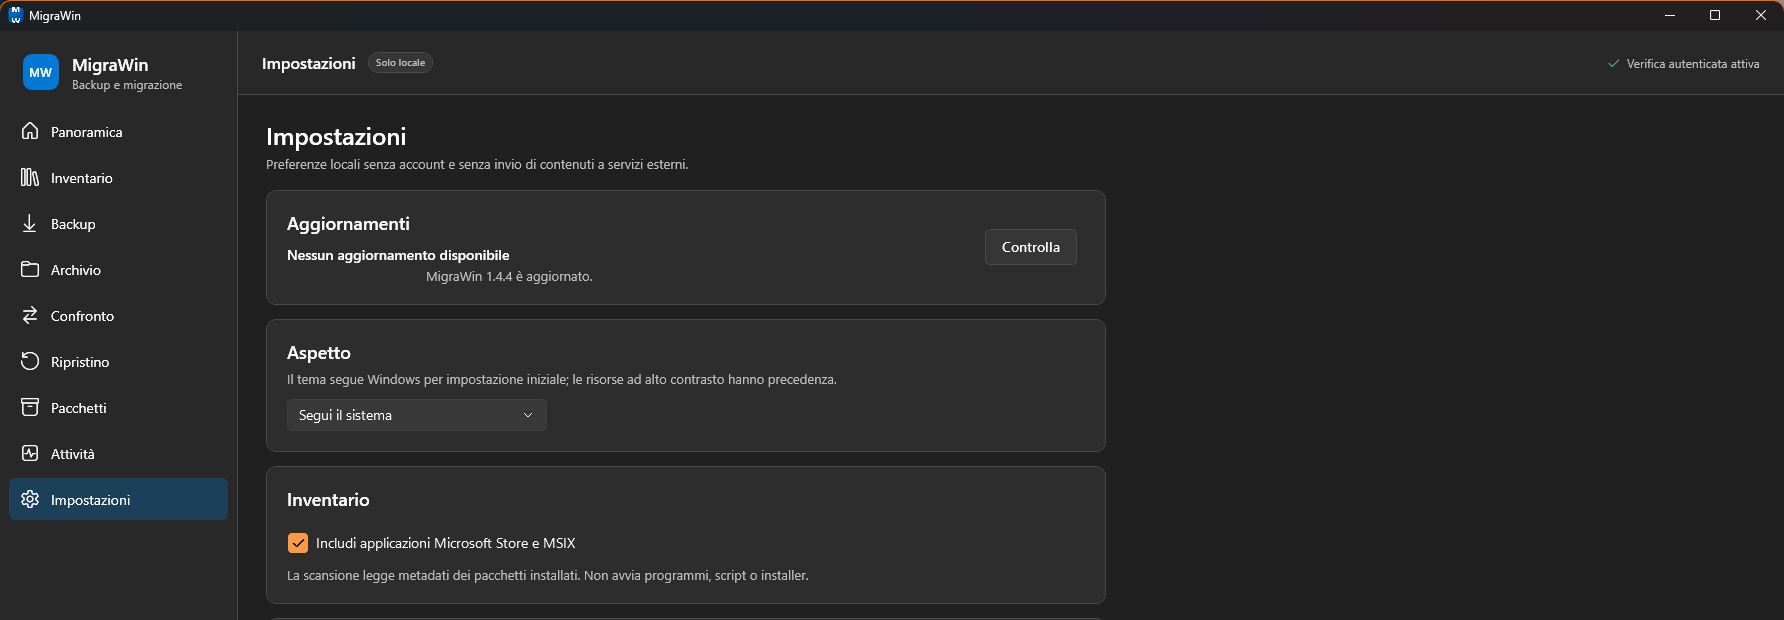
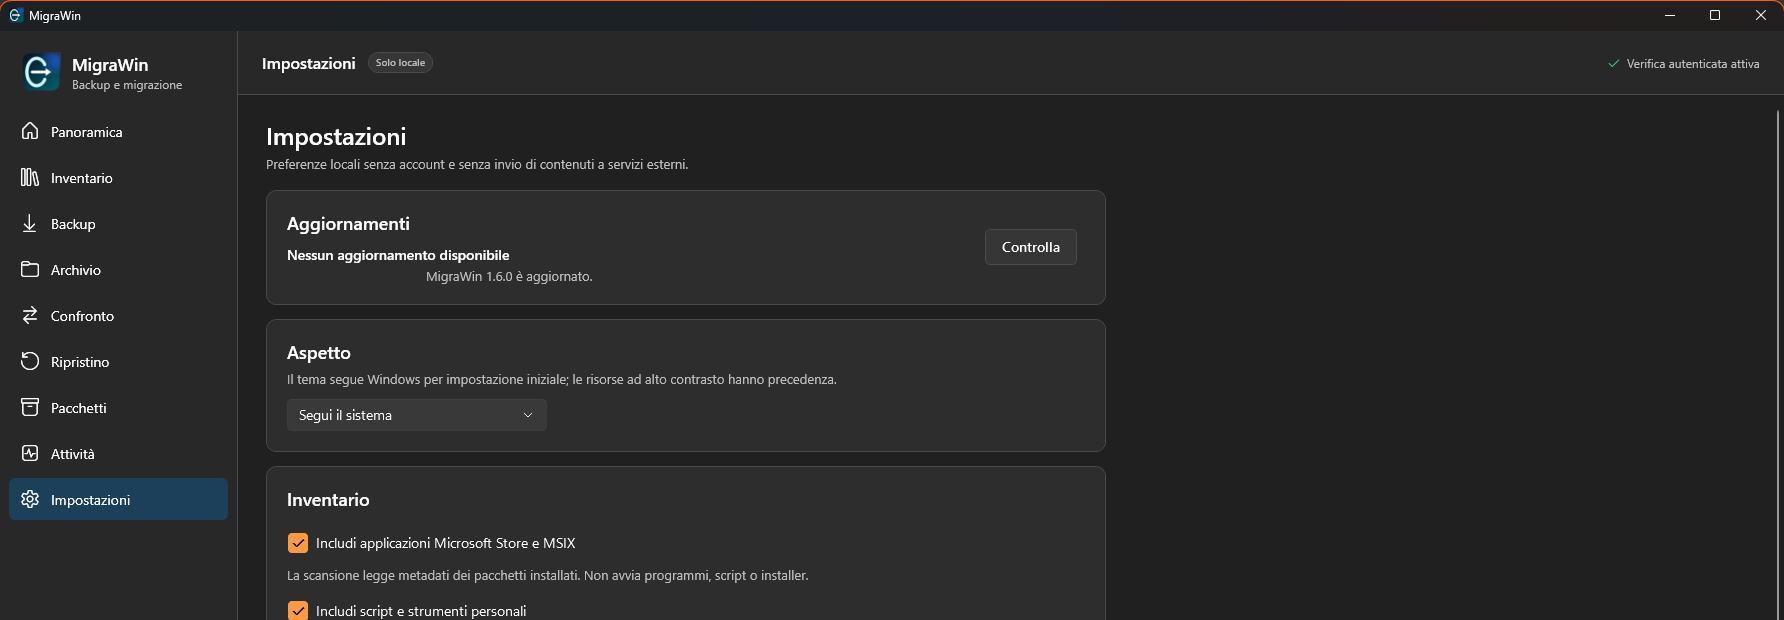
Record verified 1.6.0 release

Changed region(s): [[0.1541, 0.95, 0.3083, 1.0], [0.0, 0.0613, 0.0308, 0.1532], [0.0, 0.0, 0.0308, 0.0306]]

diff --git a/PLAN.md b/PLAN.md
@@ -64,18 +64,20 @@ Ulteriori verifiche effettuate:
 - `dotnet list package --vulnerable --include-transitive`: nessun pacchetto vulnerabile;
 - build Debug e Release senza errori;
 - MSI installato con codice 0;
-- avvio del binario self-contained installato dalla release 1.5.0, finestra responsiva.
+- avvio del binario self-contained installato dalla release 1.6.0, finestra responsiva.
 - accessibilità UI: nessun controllo interattivo visibile privo di nome;
 - icone applicazione estratte dal PC e galleria promozionale ufficiale verificate visivamente in Visual Studio Code;
-- nuova icona v1.5.0 verificata nell'API, nell'eseguibile e nella finestra installata;
+- nuova icona v1.6.0 verificata nell'API, nell'eseguibile e nella finestra installata;
 - repository pubblico: `https://github.com/renegadeFree/MigraWin`;
-- release pubblica: `https://github.com/renegadeFree/MigraWin/releases/tag/v1.5.0`;
-- GitHub Action della release `v1.5.0` completata con esito `success`;
-- Windows CI sul commit `0c6f371` completata con esito `success`: build, test, installazione MSI, self-check, menu Start e disinstallazione;
[1 lines of base64/hex data omitted]
+- release pubblica: `https://github.com/renegadeFree/MigraWin/releases/tag/v1.6.0`;
+- GitHub Action della release `v1.6.0` completata con esito `success`;
+- Windows CI sul commit `20fba0c` completata con esito `success`: build, test, installazione MSI, self-check, menu Start e disinstallazione;
[1 lines of base64/hex data omitted]
 - aggiornamento reale 1.4.0 → 1.4.1 rilevato e scaricato;
 - installazione passiva MSI verificata da `Downloads\MigraWinUpdates`;
-- release pubblica `v1.5.0` installata con codice 0 e avviata correttamente.
+- release pubblica `v1.6.0` installata con codice 0 e avviata correttamente;
+- scansione reale con 572 applicazioni/strumenti, inclusi 21 script personali e configurazioni locali;
+- strumenti verificati nell'inventario: Enter for rename, PM2, n8n, Pi Agent e Proxy DeepSeek per Codex.
 - backup e ripristino Git eseguiti dall'interfaccia reale con contenuto SHA-256 identico prima e dopo.
 
 ## Prossimi incrementi

diff --git a/README.md b/README.md
@@ -96,7 +96,11 @@ Puoi verificare il download:
 Get-FileHash .\MigraWin-1.6.0-x64.msi -Algorithm SHA256
 ```
 
-Il checksum SHA-256 ufficiale è pubblicato accanto all'installer: [SHA256SUMS.txt](https://github.com/renegadeFree/MigraWin/releases/download/v1.6.0/SHA256SUMS.txt).
+Hash SHA-256 della release 1.6.0:
+
+```text
[1 lines of base64/hex data omitted]
+```
 
 > **Nota sulla firma digitale:** la release corrente non ha una firma Authenticode di distribuzione. Windows può quindi mostrare un avviso SmartScreen. La pipeline di firma è pronta e viene attivata quando è disponibile un certificato valido.
 
